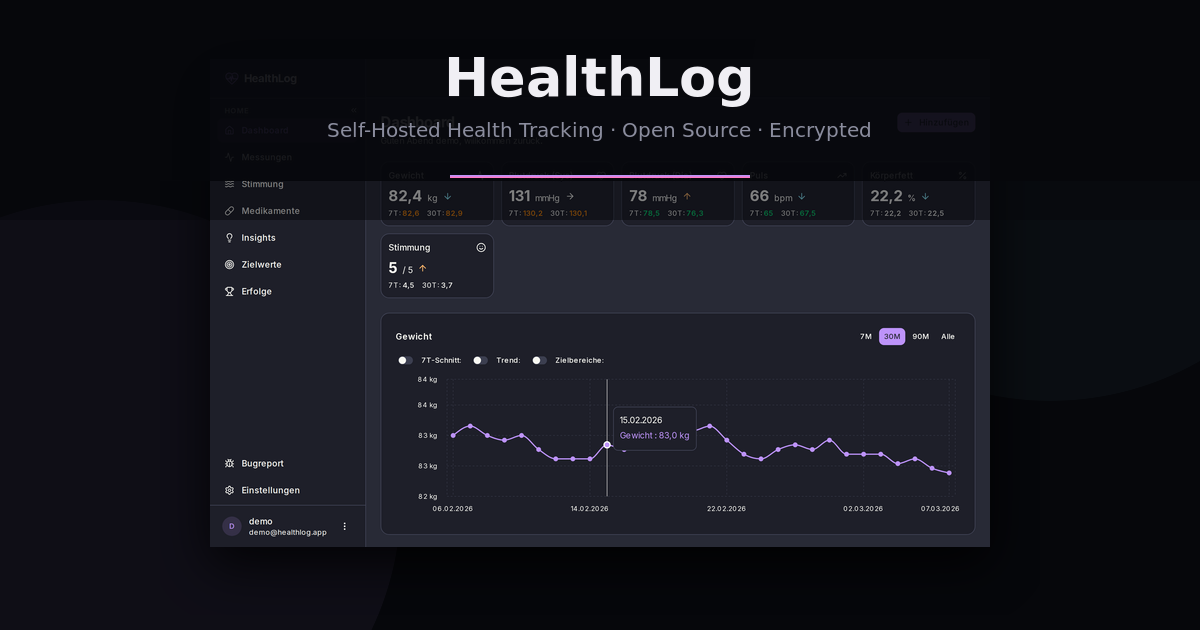
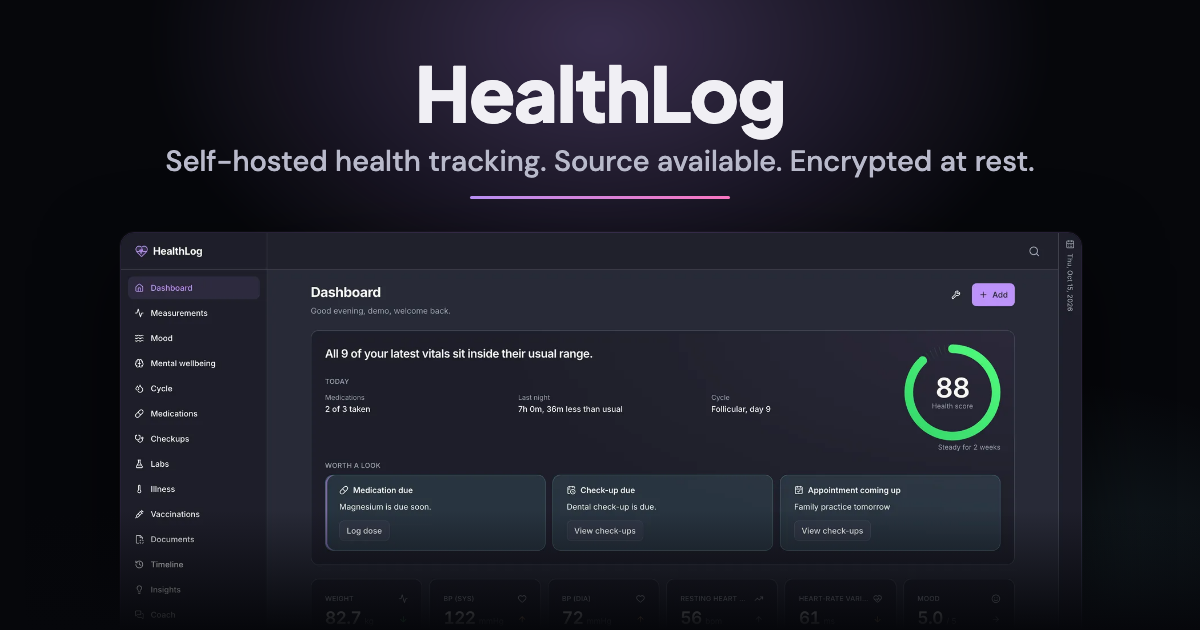
content: say source available on the social card, nine languages, Fitbit through Google Health after 30 October 2026

diff --git a/src/app/page.tsx b/src/app/page.tsx
@@ -453,7 +453,7 @@ const stories: {
     id: "timeline",
     kicker: "Timeline",
     title: "Every source on one timeline",
-    body: "Apple Health, Withings, WHOOP, Oura, Polar, Fitbit, Nightscout and what you type in land on one axis, next to your medications, lab results and visits. When two devices report the same day, you decide which one counts.",
+    body: "Apple Health, Withings, WHOOP, Oura, Polar, Google Health, Nightscout and what you type in land on one axis, next to your medications, lab results and visits. When two devices report the same day, you decide which one counts.",
     shot: "timeline",
     alt: "HealthLog timeline over three months with lanes for life events, conditions, medications, vaccinations, labs and cycle above blood pressure, weight and resting heart rate",
   },
@@ -509,14 +509,14 @@ const everythingElse: { group: string; items: [string, string][] }[] = [
       ["qr", "Share links with a QR code"],
       ["users", "Family access, read or write"],
       ["user", "Records for a child"],
-      ["globe", "7 languages"],
+      ["globe", "9 languages"],
     ],
   },
   {
     group: "Connect",
     items: [
       ["watch", "Withings, WHOOP, Oura, Polar"],
-      ["watch", "Fitbit and Pixel Watch"],
+      ["watch", "Fitbit and Pixel through Google Health"],
       ["link", "Strava, Nightscout, Dawarich"],
       ["phone", "Health Connect import"],
       ["watch", "Garmin via Apple or Google Health"],
@@ -547,7 +547,7 @@ const faqs = [
   {
     question: "Which devices and services does HealthLog integrate with?",
     answer:
-      "Withings, WHOOP, Oura, Polar, Fitbit, Strava, Nightscout and Dawarich sync over OAuth or your own endpoints, and Apple Health syncs live through the iOS app or via export import. On Android you can import a Health Connect export. AI insights run against OpenAI, Anthropic, your ChatGPT subscription, or a local model (Ollama, LM Studio, vLLM).",
+      "Withings, WHOOP, Oura, Polar, Google Health (Fitbit and Pixel), Strava, Nightscout and Dawarich sync over OAuth or your own endpoints, and Apple Health syncs live through the iOS app or via export import. On Android you can import a Health Connect export. AI insights run against OpenAI, Anthropic, your ChatGPT subscription, or a local model (Ollama, LM Studio, vLLM).",
   },
   {
     question: "Can I connect HealthLog to an AI assistant?",

diff --git a/src/app/layout.tsx b/src/app/layout.tsx
@@ -89,7 +89,7 @@ export const metadata: Metadata = {
         url: "https://healthlog.dev/og-image.png",
         width: 1200,
         height: 630,
-        alt: "HealthLog — Self-hosted health tracking dashboard showing weight trends, medication compliance, and mood tracking",
+        alt: "HealthLog dashboard with the health score, today's medications, sleep and cycle, and tiles for weight, blood pressure, resting heart rate, heart-rate variability and mood",
       },
     ],
   },
@@ -268,7 +268,7 @@ export default function RootLayout({
         name: "Which devices and services does HealthLog integrate with?",
         acceptedAnswer: {
           "@type": "Answer",
-          text: "Withings devices (Body+, BPM Connect, ScanWatch) sync over OAuth2 with near-real-time webhooks, and Apple Health syncs live through the iOS app or via export import. On Android you can import a Health Connect export. AI insights run against OpenAI, Anthropic, your ChatGPT subscription, or a local model (Ollama, LM Studio, vLLM).",
+          text: "Withings, WHOOP, Oura, Polar, Google Health (Fitbit and Pixel), Strava, Nightscout and Dawarich sync over OAuth or your own endpoints, and Apple Health syncs live through the iOS app or via export import. On Android you can import a Health Connect export. AI insights run against OpenAI, Anthropic, your ChatGPT subscription, or a local model (Ollama, LM Studio, vLLM).",
         },
       },
       {

diff --git a/src/app/de/privacy/page.tsx b/src/app/de/privacy/page.tsx
@@ -733,7 +733,7 @@ export default function DatenschutzSeite() {
           <SubProcessor
             labels={LABELS}
             name="Fitbit (Google LLC)"
-            role="Geräte-Synchronisation, wenn Sie ein Fitbit-Konto verbinden. Angefragter Umfang: Aktivität, kardiorespiratorische Fitness, Herzfrequenz, Sauerstoffsättigung, Atemfrequenz, Schlaf, Gewicht, Profil."
+            role="Geräte-Synchronisation, wenn Sie ein Fitbit-Konto verbinden. Angefragter Umfang: Aktivität, kardiorespiratorische Fitness, Herzfrequenz, Sauerstoffsättigung, Atemfrequenz, Schlaf, Gewicht, Profil. Google schaltet diese Fitbit-Web-API am 30. Oktober 2026 ab; danach ruft HealthLog sie nicht mehr auf, behält die bereits importierten Daten, und Fitbit- und Pixel-Geräte werden über Google Health verbunden."
             data="OAuth-Token, die Fitbit-Nutzerkennung und die von diesem Umfang erfassten Datensätze."
             location="Infrastruktur des Anbieters. Die Anbindung legt keine Region fest."
             policyUrl="https://www.fitbit.com/global/de/legal/privacy-policy"

diff --git a/src/app/privacy/page.tsx b/src/app/privacy/page.tsx
@@ -706,7 +706,7 @@ export default function PrivacyPage() {
           <SubProcessor
             labels={LABELS}
             name="Fitbit (Google LLC)"
-            role="Device data sync when the user connects a Fitbit account. Scope requested: activity, cardio fitness, heart rate, oxygen saturation, respiratory rate, sleep, weight, profile."
+            role="Device data sync when the user connects a Fitbit account. Scope requested: activity, cardio fitness, heart rate, oxygen saturation, respiratory rate, sleep, weight, profile. Google turns this Fitbit Web API off on 30 October 2026; from then HealthLog no longer contacts it, keeps what was already imported, and Fitbit and Pixel devices connect through Google Health."
             data="OAuth tokens, the Fitbit user identifier, and the records covered by that scope."
             location="Provider-operated infrastructure. The integration does not pin a region."
             policyUrl="https://www.fitbit.com/global/en/legal/privacy-policy"

diff --git a/src/app/features/page.tsx b/src/app/features/page.tsx
@@ -169,7 +169,7 @@ const groups: Group[] = [
       ["Sign-in", "Passkeys, password with 2FA, or OpenID Connect single sign-on."],
       ["No telemetry", "Three small checks (update, password breach, sign-in location), none with health data, each can be switched off."],
       ["API", "A documented REST API with scoped tokens and an OpenAPI 3.1 contract."],
-      ["Languages", "English, German, Spanish, French, Italian, Polish and Korean."],
+      ["Languages", "English, German, Spanish, French, Italian, Polish, Korean, Dutch and Brazilian Portuguese."],
       ["Not a medical device", "HealthLog shows and explains your data. It does not diagnose."],
     ],
   },

diff --git a/src/content/learn/locales.ts b/src/content/learn/locales.ts
@@ -1,4 +1,4 @@
-// Locale configuration for the /learn guides. Mirrors the HealthLog app's six
+// Locale configuration for the /learn guides. Six of the HealthLog app's nine
 // locales. English is the default and lives at the unprefixed /learn; the other
 // five are served under /<lang>/learn.
 
